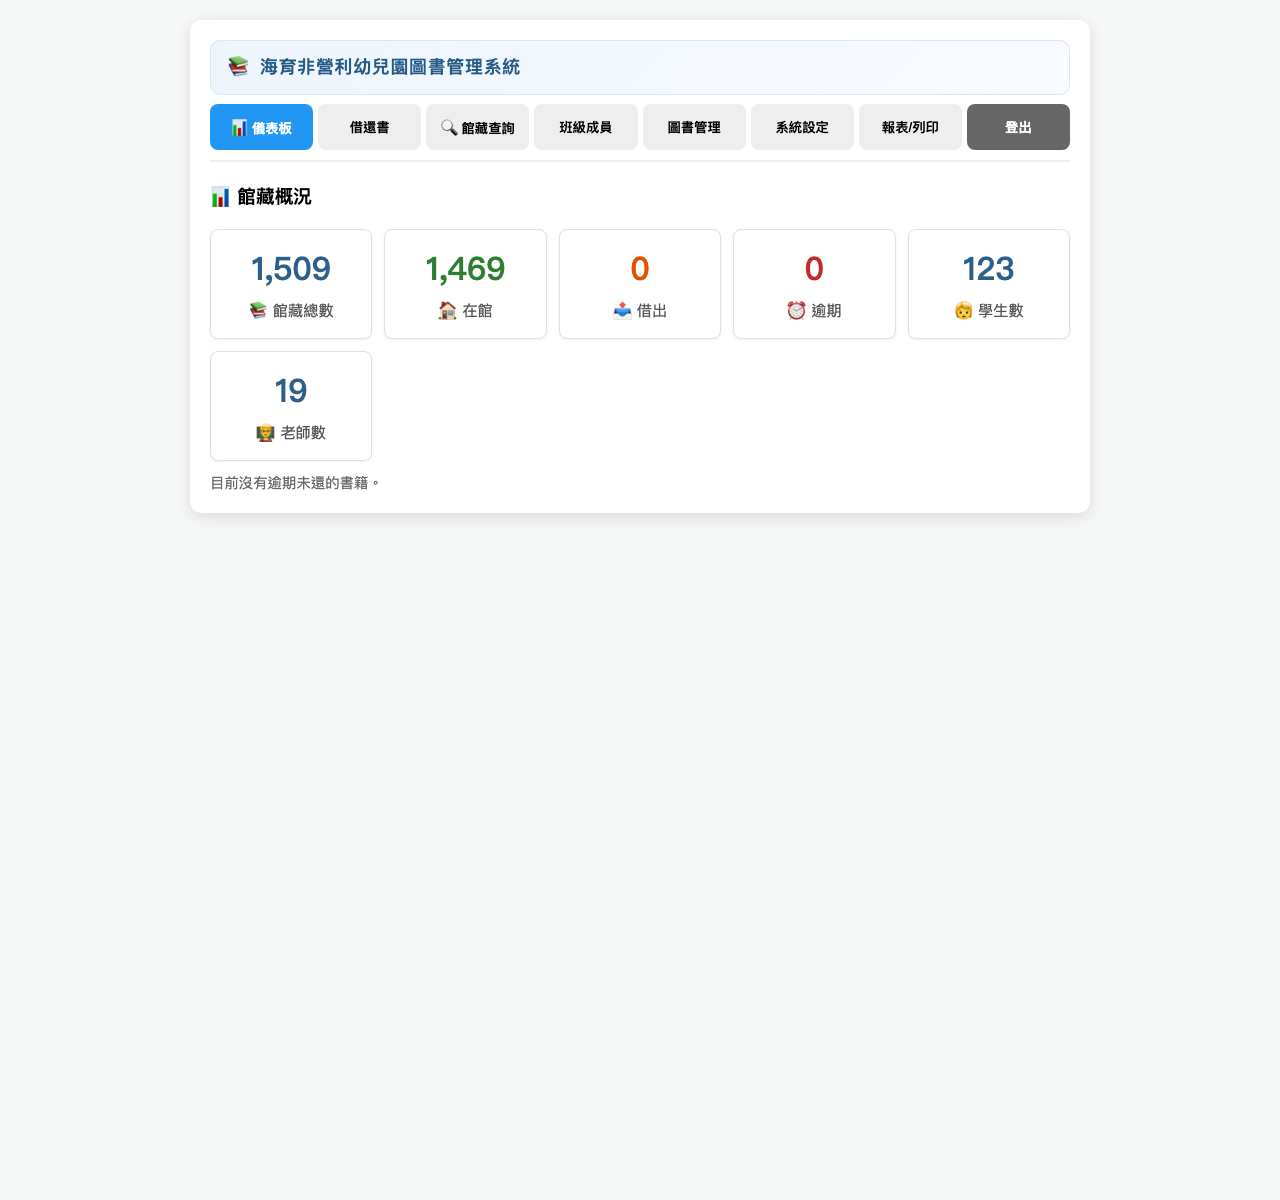
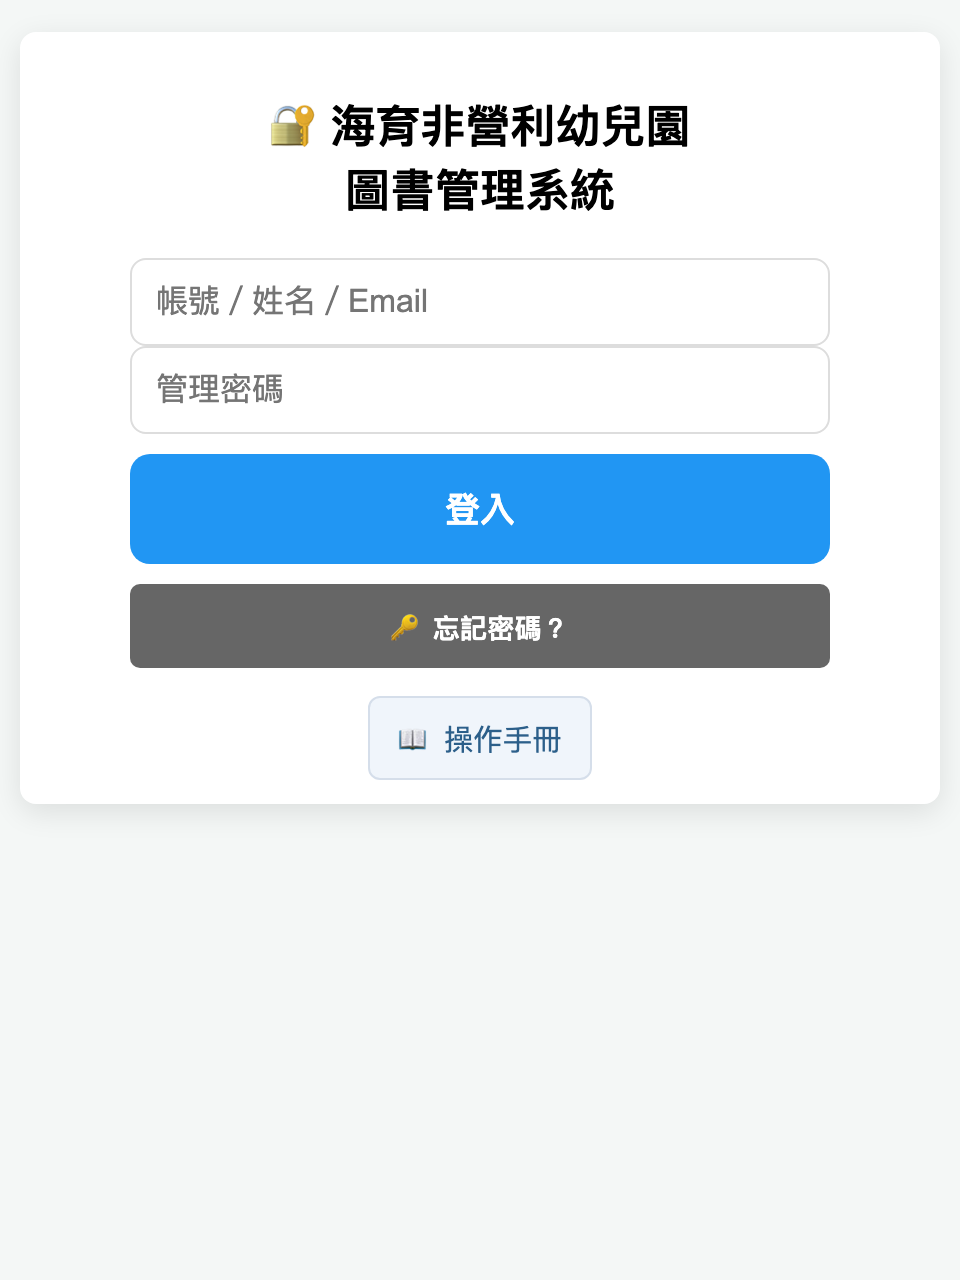
docs: 修正操作手冊登入畫面說明與截圖（移除不存在的「帳號密碼登入」模式）

diff --git a/docs/操作手冊.md b/docs/操作手冊.md
@@ -41,10 +41,10 @@
 
 ### 0.1 登入畫面樣式
 
-系統開啟後，登入畫面選擇「帳號密碼登入」。
+系統開啟後，顯示登入畫面。
 
-- 「帳號密碼登入」：輸入帳號與密碼登入。一般使用者（管理員、老師、學生）皆可使用；帳號可為帳號、姓名或 Email。未填帳號、只輸入管理密碼者，登入為系統管理員（備援）。
-- 登入畫面展示「海育非營利幼兒園」與「圖書管理系統」標題。
+- 登入畫面包含「帳號／姓名／Email」輸入欄與「管理密碼」輸入欄；一般使用者（管理員、老師、學生）皆可使用。未填帳號、只輸入管理密碼者，登入為系統管理員（備援）。
+- 登入畫面展示「海育非營利幼兒園」與「圖書管理系統」標題，並提供「🔑 忘記密碼？」與「📖 操作手冊」連結。
 
 ![登入畫面](images/01-login.png)
 
